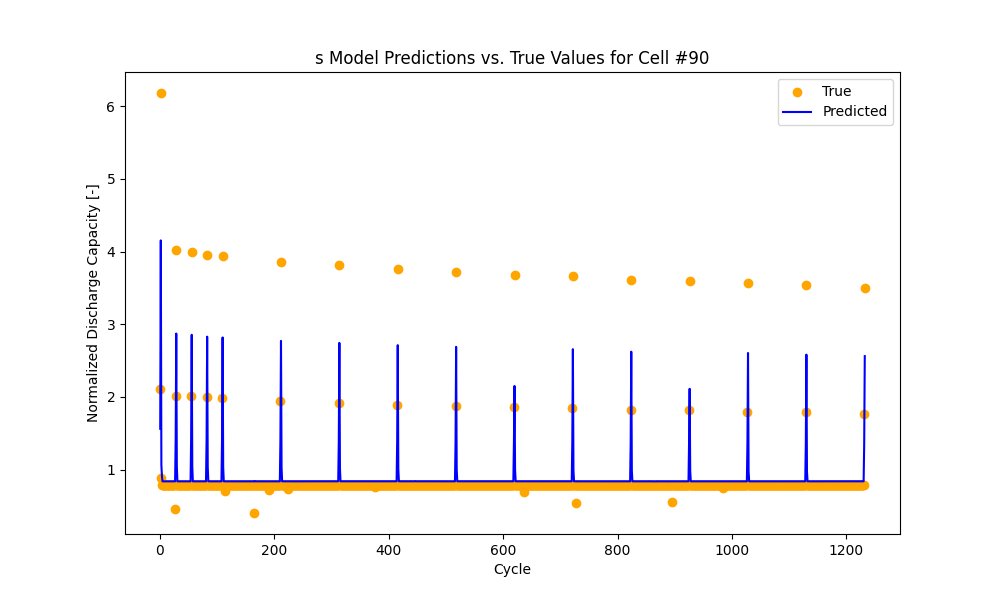
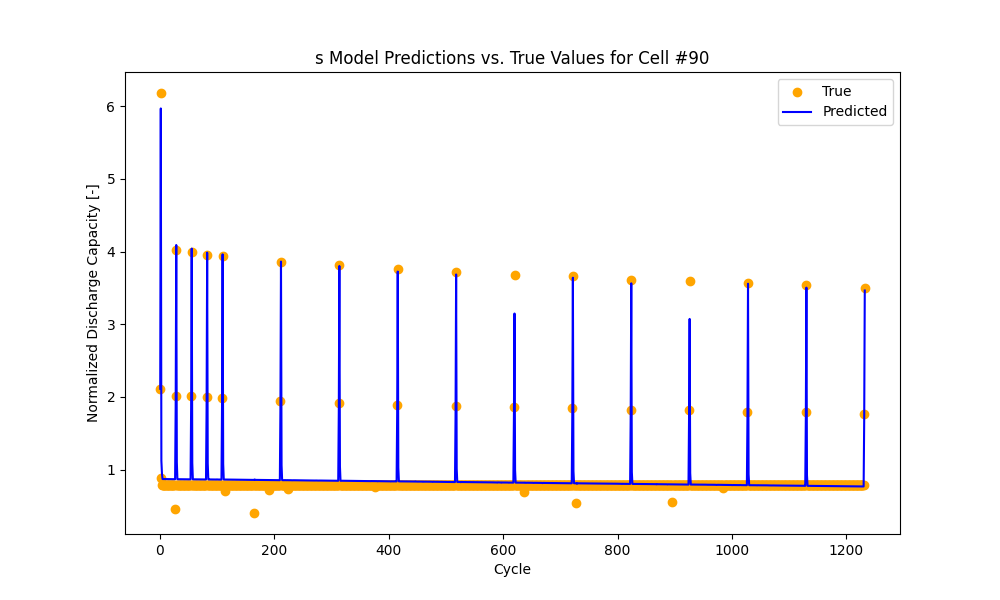
Add files with Git LFS

diff --git a/model_analysis.py b/model_analysis.py
@@ -5,6 +5,8 @@ import matplotlib.pyplot as plt
 from sklearn import linear_model
 from sklearn.model_selection import train_test_split
 from sklearn.preprocessing import StandardScaler
+from sklearn.preprocessing import RobustScaler
+import seaborn as sns
 
 """As a note for data analysis: all models will be trained and validated individually for each of the three 
 datasets: constant current, periodic, and synthetic. The real driving dataset will be used for testing purposes
@@ -55,6 +57,40 @@ def inspect_all_data(data_constant_current, data_periodic, data_synthetic, data_
     print("Inspecting Real Driving Data:")
     inspect_dictionary(data_real_driving)
     return
+
+# def remove_outliers(data):
+#     """Replace outliers from the data with data that fits the discharge profile. Some of the normalized 
+#     discharge capacities are greater than 2.0. These data should be replaced with a value that is the working 
+#     median of the 10 cycles before and after the cycle in question. In cases where the cycle is within the 
+#     first 10 cycles, the median of the 10 cycles after the cycle in question should be used. In cases where 
+#     the cycle is within the last 10 cycles, the median of the 10 cycles before the cycle in question should 
+#     be used. All other columns will perform the same computation at the identified cycle. In all cases, cycle 
+#     number should remain the same."""
+
+#     new_data = {}
+#     for key in data.keys():
+#         # The target will contain Cycle and Normalized Discharge Capacity [-]
+#         # The features will contain Cycle with all other columns
+#         data_cycle = data[key]["Cycle"]
+#         data_other = data[key].drop(columns=["Cycle"])
+#         for i in range(10, len(data_other) - 10):
+#             if data_other.loc[i, "Normalized Discharge Capacity [-]"] > 2.0:
+#                 # perform the same computation at the identified cycle for all columns
+#                 for col in data_other.columns:
+#                     data_other.loc[i, col] = np.median(data_other.loc[i-10:i+10, col])
+#         for i in range(10):
+#             if data_other.loc[i, "Normalized Discharge Capacity [-]"] > 2.0:
+#                 for col in data_other.columns:
+#                     data_other.loc[i, col] = np.median(data_other.loc[i:i+10, col])
+#         for i in range(len(data_other) - 10, len(data_other)):
+#             if data_other.loc[i, "Normalized Discharge Capacity [-]"] > 2.0:
+#                 for col in data_other.columns:
+#                     data_other.loc[i, col] = np.median(data_other.loc[i-10:i, col])
+#         # add the cycle data back to the DataFrame
+#         new_data[key] = pd.concat([data_cycle, data_other], axis=1)
+        
+#     return new_data
+
 
 def create_train_val_sets(data, seed=77):
     # Save the headers of the DataFrames
@@ -161,35 +197,50 @@ def remove_before_char(s, char):
 def create_models(train_set_X, val_set_X, train_set_y, val_set_y, headers_x, key):
     """We will test linear regression, ridge regression, and lasso regression models.
     Lasso will be tested for various alpha values [0.1, 0.25, 0.5, 0.75, 0.9]
-    Ridge will be tested for various alpha values [1, 2.5, 5, 7.5, 9]
+    Ridge will be tested for various alpha values [10, 25, 50, 75, 90]
     Create a dictionary to store the R^2 values"""
     
     print(f"Creating models for {key} data.")
     
     # Scale the X data
-    scaler = StandardScaler()
+    scaler = RobustScaler()
     train_set_X = scaler.fit_transform(train_set_X)
     val_set_X = scaler.transform(val_set_X)
 
-    # print the the first few rows of the scaled train and validation sets
+    # print the first few rows of the scaled train and validation sets X
     print("Scaled Train Set X:")
     print(train_set_X[:5])
     print("Scaled Validation Set X:")
     print(val_set_X[:5])
 
+    # Check for multicollinearity
+    check_multicollinearity(pd.DataFrame(train_set_X, columns=headers_x))
 
-    # # Scale the y data
-    # target_scaler = StandardScaler()
-    # target_scaler = target_scaler.fit_transform(train_set_y.values.reshape(-1, 1))
-    # val_set_y = target_scaler.transform(val_set_y.values.reshape(-1, 1))
+    # Scale the y data
+    target_scaler = RobustScaler()
+    train_set_y = target_scaler.fit_transform(train_set_y)
+    val_set_y = target_scaler.transform(val_set_y)
 
+    # print the first few rows of the scaled train and validation sets Y
+    print("Scaled Train Set y:")
+    print(train_set_y[:5])
+    print("Scaled Validation Set y:")
+    print(val_set_y[:5])
+
+    # Print shapes of the datasets
+    print(f"Shape of train_set_X: {train_set_X.shape}")
+    print(f"Shape of val_set_X: {val_set_X.shape}")
+    print(f"Shape of train_set_y: {train_set_y.shape}")
+    print(f"Shape of val_set_y: {val_set_y.shape}")
 
     r2_values = {}
     # Create a dictionary to store the models
     models = {}
     # Create a dictionary to store the model names
     model_names = {}
-    coefficients_list = []  # List to store coefficients=
+    coefficients_list = []  # List to store coefficients
+
+    MULTIPLIER = 100
     
     for model_name in ["linear", "ridge", "lasso"]:
         r2_values[model_name] = []
@@ -200,8 +251,8 @@ def create_models(train_set_X, val_set_X, train_set_y, val_set_y, headers_x, key
                 model = linear_model.LinearRegression()
                 alpha_value = None
             elif model_name == "ridge":
-                model = linear_model.Ridge(alpha=10*alpha, max_iter=10000)
-                alpha_value = 10*alpha
+                model = linear_model.Ridge(alpha=MULTIPLIER*alpha, max_iter=10000)
+                alpha_value = MULTIPLIER*alpha
             elif model_name == "lasso":
                 model = linear_model.Lasso(alpha=alpha, max_iter=10000)
                 alpha_value = alpha
@@ -213,8 +264,8 @@ def create_models(train_set_X, val_set_X, train_set_y, val_set_y, headers_x, key
                 model_names[model_name].append(model_name)
                 print(f"Model: {model_name}, R^2: {r2}")
             elif model_name == "ridge":
-                model_names[model_name].append(model_name + f"_{10*alpha}")
-                print(f"Model: {model_name}, alpha: {10*alpha}, R^2: {r2}")
+                model_names[model_name].append(model_name + f"_{MULTIPLIER*alpha}")
+                print(f"Model: {model_name}, alpha: {MULTIPLIER*alpha}, R^2: {r2}")
             else:
                 model_names[model_name].append(model_name + f"_{alpha}")
                 print(f"Model: {model_name}, alpha: {alpha}, R^2: {r2}")
@@ -226,7 +277,7 @@ def create_models(train_set_X, val_set_X, train_set_y, val_set_y, headers_x, key
                 "R^2": r2
             }
             # Use zip to pair feature names with their coefficients
-            coef_dict.update({f: coef for f, coef in zip(headers_x, model.coef_[1])})
+            coef_dict.update({f: coef for f, coef in zip(headers_x, model.coef_.flatten())})
             print(f'Size of Coefficients structure = {len(model.coef_)}')
             coefficients_list.append(coef_dict)
 
@@ -258,13 +309,17 @@ def create_models(train_set_X, val_set_X, train_set_y, val_set_y, headers_x, key
     print("Coefficients DataFrame:")
     print(coefficients_df)
 
-    
-    return best_model, best_model_name, best_alpha, best_r2, scaler, coefficients_df
+    return best_model, best_model_name, best_alpha, best_r2, scaler, target_scaler, coefficients_df
 
-def plot_figures(y_true, y_pred, key, recipe_type):
+def plot_figures(y_true, y_pred, key, recipe_type, target_scaler):
     """Plot the predictions against the actual values."""
+    # Inverse transform the target variable
+    y_true = target_scaler.inverse_transform(y_true)
+    y_pred = target_scaler.inverse_transform(y_pred)
+    
     # add headers to the y_pred DataFrame where the first column is "Cycle" and the second column is "Normalized Discharge Capacity [-]"
     y_pred = pd.DataFrame(y_pred[:,1], columns=["Normalized Discharge Capacity [-]"])
+    y_true = pd.DataFrame(y_true, columns=["Cycle", "Normalized Discharge Capacity [-]"])
 
     plt.figure(figsize=(10, 6))
     # scatter plot of the true values
@@ -277,10 +332,10 @@ def plot_figures(y_true, y_pred, key, recipe_type):
     plt.legend(["True", "Predicted"])
     # save the figure to Data/Completed_Analysis
     plt.savefig(f"Data/Completed_Analysis/{recipe_type}_Model_Predictions_vs_True_Values_Cell_{int(key) + 89}.png")
+    plt.close()  # Close the figure to free up memory
     return
-    
 
-def test_model(best_model, best_model_name, data_real_driving, scaler, recipe_type):
+def test_model(best_model, best_model_name, data_real_driving, scaler, target_scaler, recipe_type):
     """Test the best model against all real driving data keys (8 in total)."""
     r2_values = {}
     # separate the target variable from the features for the real driving dataset
@@ -295,6 +350,8 @@ def test_model(best_model, best_model_name, data_real_driving, scaler, recipe_ty
     for key in data_real_driving.keys():
         # Apply the same scaling to the test data
         data_real_driving_X[key] = scaler.transform(data_real_driving_X[key])
+        data_real_driving_y[key] = target_scaler.transform(data_real_driving_y[key])
+        # Calculate R^2
         r2 = best_model.score(data_real_driving_X[key], data_real_driving_y[key])
         r2_values[key] = r2
         # print the R^2 value for each key
@@ -307,7 +364,7 @@ def test_model(best_model, best_model_name, data_real_driving, scaler, recipe_ty
         # print the shape of the predictions
         print(f"Shape of Predictions: {y_pred.shape}")
         # plot the predictions against the actual values
-        plot_figures(data_real_driving_y[key], y_pred, key, recipe_type)
+        plot_figures(data_real_driving_y[key], y_pred, key, recipe_type, target_scaler)
     # print all R^2 values
     print("R^2 Values:")
     print(r2_values)
@@ -315,12 +372,32 @@ def test_model(best_model, best_model_name, data_real_driving, scaler, recipe_ty
     print(f"Average R^2: {avg_r2}")
     return avg_r2
 
+def check_multicollinearity(data):
+    # Calculate the correlation matrix
+    corr_matrix = data.corr()
+    # Plot the heatmap
+    plt.figure(figsize=(16, 12))
+    sns.heatmap(corr_matrix, annot=True, cmap='coolwarm')
+    plt.title("Correlation Matrix")
+    # Adjust layout to ensure nothing is cut off
+    plt.tight_layout()
+    plt.subplots_adjust(left=0.2, right=0.9, top=0.9, bottom=0.3)
+    # Save the figure to Data/Completed_Analysis
+    plt.savefig("Data/Completed_Analysis/Correlation_Matrix.png")
+    plt.close()  # Close the figure to free up memory and avoid overlay plots
+    return
 
 def main():
     # Load data
     data_constant_current, data_periodic, data_synthetic, data_real_driving = load_data()
     # Inspect dictionary keys
     inspect_all_data(data_constant_current, data_periodic, data_synthetic, data_real_driving)
+
+    # # remove discharge data outliers from all datasets
+    # data_constant_current = remove_outliers(data_constant_current)
+    # data_periodic = remove_outliers(data_periodic)
+    # data_synthetic = remove_outliers(data_synthetic)
+    # data_real_driving = remove_outliers(data_real_driving)
     
     # Create train and validation sets for cc, p, and s data
     data_train_val = {'cc': data_constant_current, 'p': data_periodic, 's': data_synthetic}
@@ -331,11 +408,11 @@ def main():
         # Create train and validation sets
         train_set_X, val_set_X, train_set_y, val_set_y, headers_x, headers_y = create_train_val_sets(data)
         # create linear, lasso, and ridge regression models - save R^2 values to a table
-        best_model, best_model_name, best_alpha, best_r2_val, scaler, coefficients_df = create_models(train_set_X, val_set_X, train_set_y, val_set_y, headers_x, key)
+        best_model, best_model_name, best_alpha, best_r2_val, scaler, target_scaler, coefficients_df = create_models(train_set_X, val_set_X, train_set_y, val_set_y, headers_x, key)
         # save the coefficients_df to a csv file to Data/Completed_Analysis
         coefficients_df.to_csv(f"Data/Completed_Analysis/{key}_coefficients.csv", index=False)
         # test the best model against the real driving data
-        avg_r2_test = test_model(best_model, best_model_name, data_real_driving, scaler, key)
+        avg_r2_test = test_model(best_model, best_model_name, data_real_driving, scaler, target_scaler, key)
         chosen_model[key] = {
             "Model": best_model_name,
             "Alpha": best_alpha,
